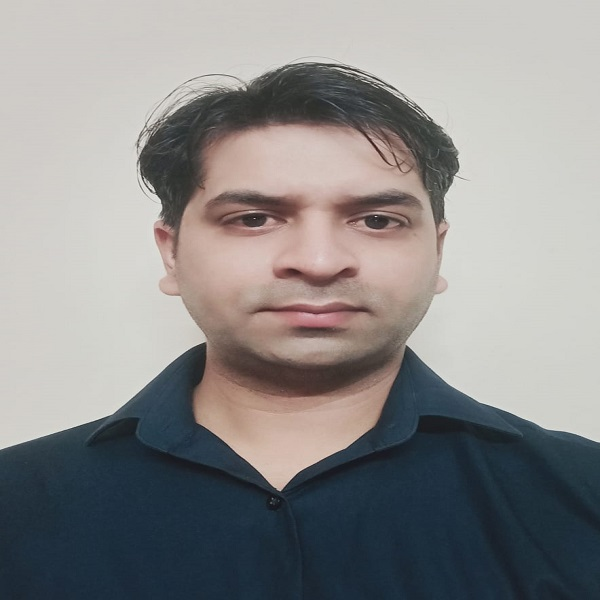
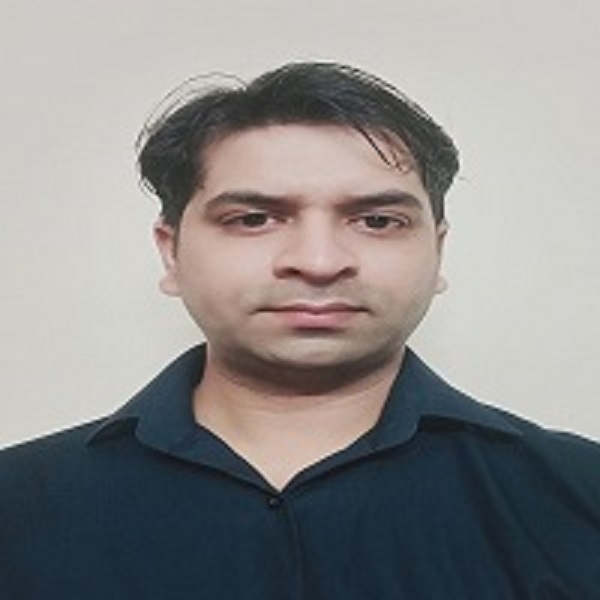
images alignment

diff --git a/index.html b/index.html
@@ -109,7 +109,7 @@
             <div class="content">
               <h3>An ISO 9001:2015 certified company</h3>
               <p>
-                 M S Electrovision Pvt. Ltd. (MSEPL) is an ISO 9001:2015 certified Electronic Design & Manufacturing Services company boasting a state of the art manufacturing facility at Manesar, Haryana.
+                 MS is an ISO 9001:2015 certified Electronic Design & Manufacturing Services company boasting a state of the art manufacturing facility at Manesar, Haryana.
               </p>
               <!--<a href="#" class="about-btn">About us <i class="bx bx-chevron-right"></i></a>-->
             </div>
@@ -752,8 +752,8 @@
 
         <div class="row">
 
-          <div class="col-lg-4 col-md-6">
-            <div class="member" data-aos="fade-up">
+          <div class="col-sm">
+            <div class="member" data-aos="fade-up" data-aos-delay="150">
               <div class="pic"><img src="assets/img/team/Achal.jpeg" class="img-fluid" alt=""></div>
               <div class="member-info">
                 <h4>Achal Gupta</h4>
@@ -762,7 +762,7 @@
             </div>
           </div>
 
-          <div class="col-lg-4 col-md-6">
+          <div class="col-sm">
             <div class="member" data-aos="fade-up" data-aos-delay="150">
               <div class="pic"><img src="assets/img/team/Ravi.jpeg" class="img-fluid" alt=""></div>
               <div class="member-info">
@@ -772,7 +772,7 @@
             </div>
           </div>
 
-          <div class="col-lg-4 col-md-6">
+          <div class="col-sm">
             <div class="member" data-aos="fade-up" data-aos-delay="150">
               <div class="pic"><img src="assets/img/team/MayankPic.PNG" class="img-fluid" alt=""></div>
               <div class="member-info">
@@ -786,7 +786,7 @@
 
           
 
-          <div class="col-lg-4 col-md-6">
+          <div class="col-sm col-lg">
             <div class="member" data-aos="fade-up" data-aos-delay="300">
               <div class="pic"><img src="assets/img/team/Anurag.jpeg" class="img-fluid" alt=""></div>
               <div class="member-info">
@@ -796,9 +796,14 @@
             </div>
           </div>
 
+        </div>
+        <div class="row">
+          <div class="col-lg-4 col-md-6">
+            
+          </div>
           <div class="col-lg-4 col-md-6">
             <div class="member" data-aos="fade-up" data-aos-delay="300">
-              <div class="pic"><img src="assets/img/team/team-3.jpg" class="img-fluid" alt=""></div>
+              <div class="pic"><img src="assets/img/team/team-1.jpg" class="img-fluid" alt=""></div>
               <div class="member-info">
                 <h4>Team</h4>
                 <span>Our Team</span>
